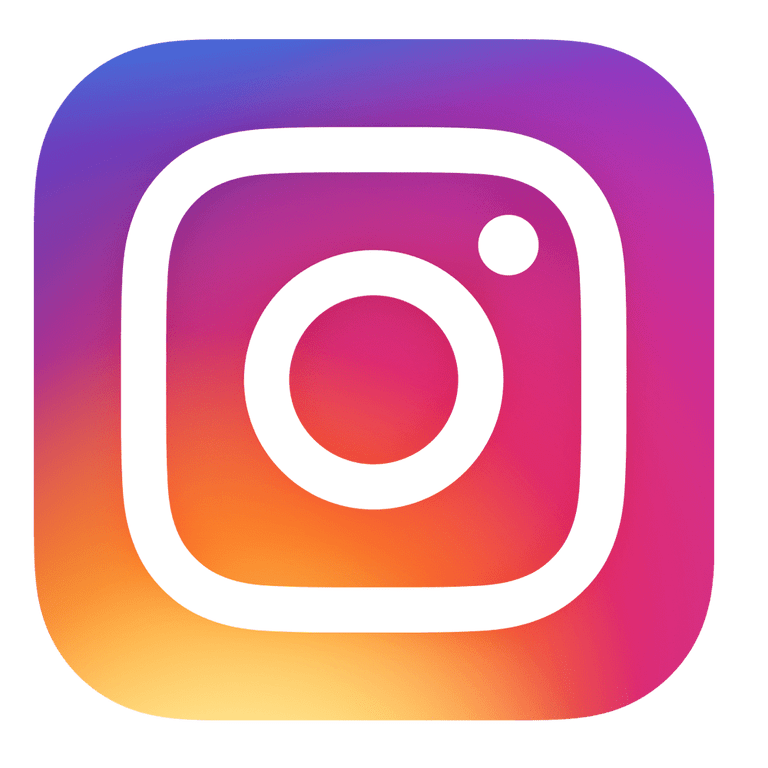
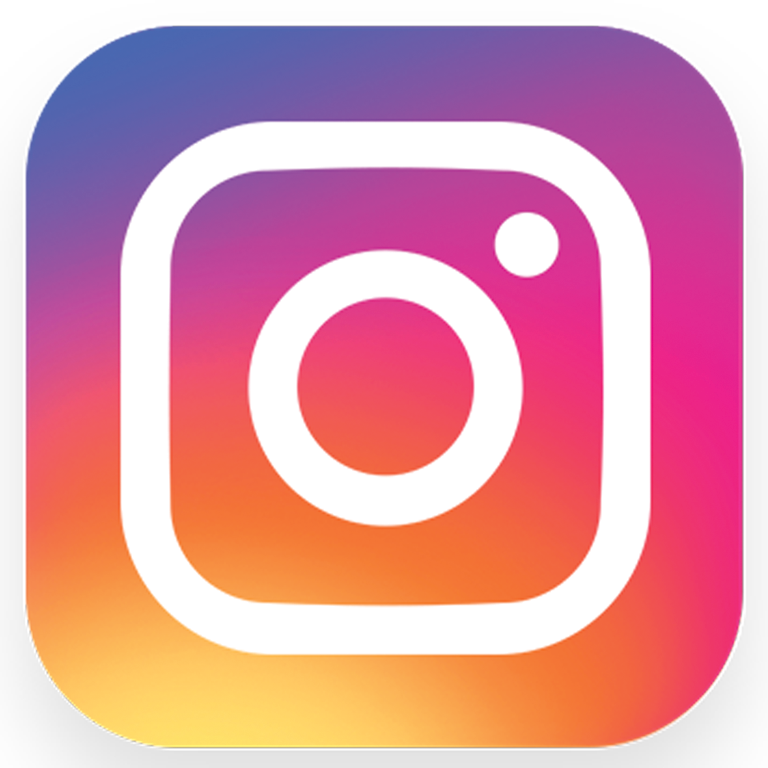
重新上传透明.png原图

diff --git a/Readme.md b/Readme.md
@@ -8,4 +8,4 @@
 |  ---- | ---- | ---- |
 | 沙漠.jpg | 640x360 | <100KB |
 | 渐变.png | 1512x700 | <100KB |
-| 透明.png | 768x768 | <300KB |
+| 透明.png | 768x768 | <100KB |
